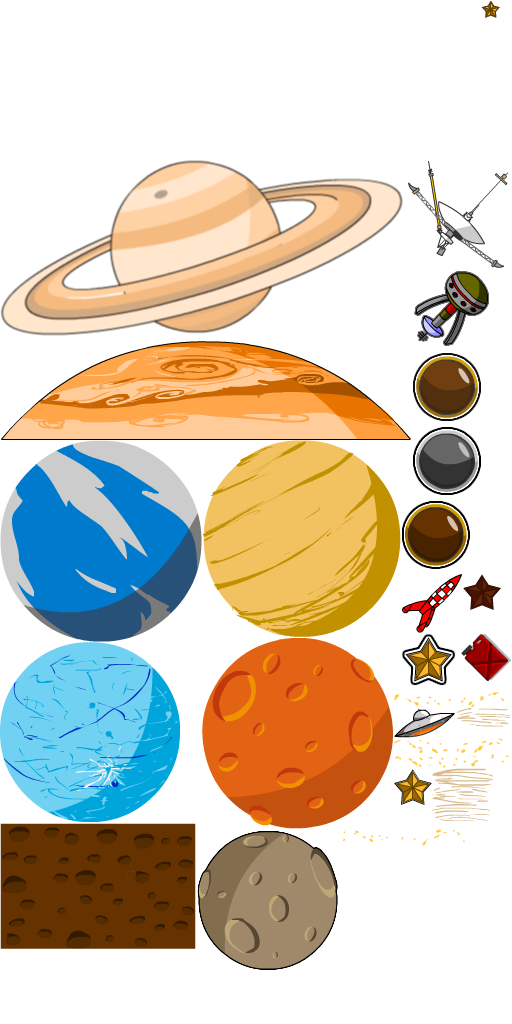
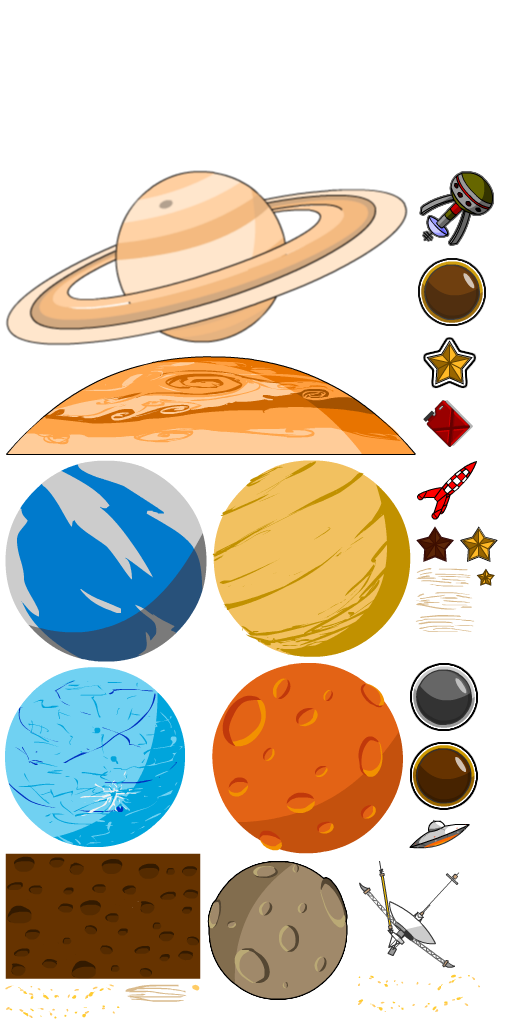
wind particles

diff --git a/exports/front/game/levels/rules/Wind.js b/exports/front/game/levels/rules/Wind.js
@@ -1,13 +1,18 @@
-function Wind (stage, renderer, params) {
+function Wind (container, renderer, params) {
     this.ticker = PIXI.ticker.shared;
     this.tick = 0;
     this.nbParticles = params.nbParticles;
-    this.stage = stage; 
+    this.container = container; 
     this.renderer = renderer; 
     this.particleContainer = this.setParticlesContainer(this.nbParticles);
-    this.stage.addChild(this.particleContainer);
+    this.container.addChild(this.particleContainer);
+}
+Wind.prototype.Constants = {
+  height:2000,
+  width:600
 }
 Wind.prototype.setParticlesContainer = function(nbParticles) {
+   const me = this;
     let pContainer = new PIXI.particles.ParticleContainer(nbParticles, {
         scale:true,
         position:true,
@@ -18,11 +23,11 @@ Wind.prototype.setParticlesContainer = function(nbParticles) {
     let totalParticles = this.renderer instanceof PIXI.WebGLRenderer ? 500 : 100;
     let allP = [];
     for (let i = 0; i < totalParticles; i++) {
-        let p = new PIXI.Sprite(PIXI.Texture.from('particle'));
+        let p = new PIXI.Sprite(PIXI.Texture.from('wind_particle0000'));
         p.anchor.set(.5);
         p.scale.set(0.8 + Math.random() * 0.3);
-        p.x = Math.random() * 800;
-        p.y = Math.random() * 600;
+        p.x = Math.random() * me.Constants.width;
+        p.y = Math.random() * me.Constants.height;
         p.tint = Math.random() * 0x808080;
         p.direction = 45 * Math.PI * 2;
         p.speed = (2 + Math.random() * 2) * 0.5;
@@ -34,8 +39,8 @@ Wind.prototype.setParticlesContainer = function(nbParticles) {
     let dudeBounds = new PIXI.Rectangle(
         -dudeBoundsPadding,
         -dudeBoundsPadding,
-        800 + dudeBoundsPadding * 2,
-        600 + dudeBoundsPadding * 2
+        me.Constants.height + dudeBoundsPadding * 2,
+        me.Constants.width + dudeBoundsPadding * 2
     );
     
     this.ticker.add(()=>{
@@ -57,6 +62,8 @@ Wind.prototype.setParticlesContainer = function(nbParticles) {
             this.tick += 0.1;
         }
     })
+
+    // pContainer.position.y = 1000;
     return pContainer;
 }
 /*

diff --git a/exports/front/game/levels/Level.js b/exports/front/game/levels/Level.js
@@ -312,7 +312,7 @@ Level.prototype.applyRules = function () {
             // #gravityRule
             console.log('WIND');
             
-            let wind = new Wind(this.stage,this.renderer, params);
+            let wind = new Wind(this,this.renderer, params);
             break;
       default:
         break;
